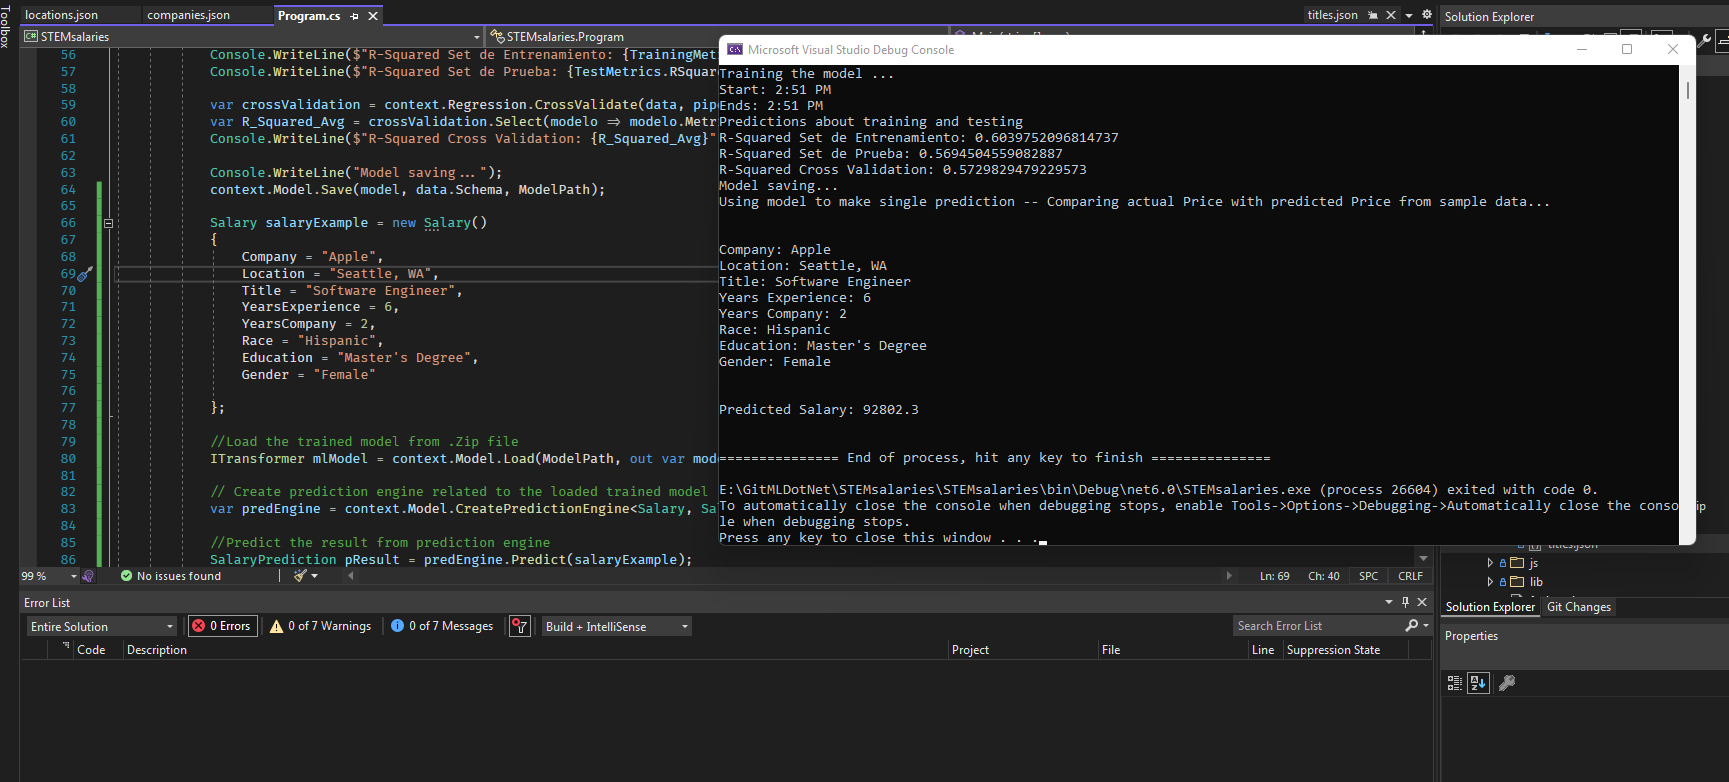
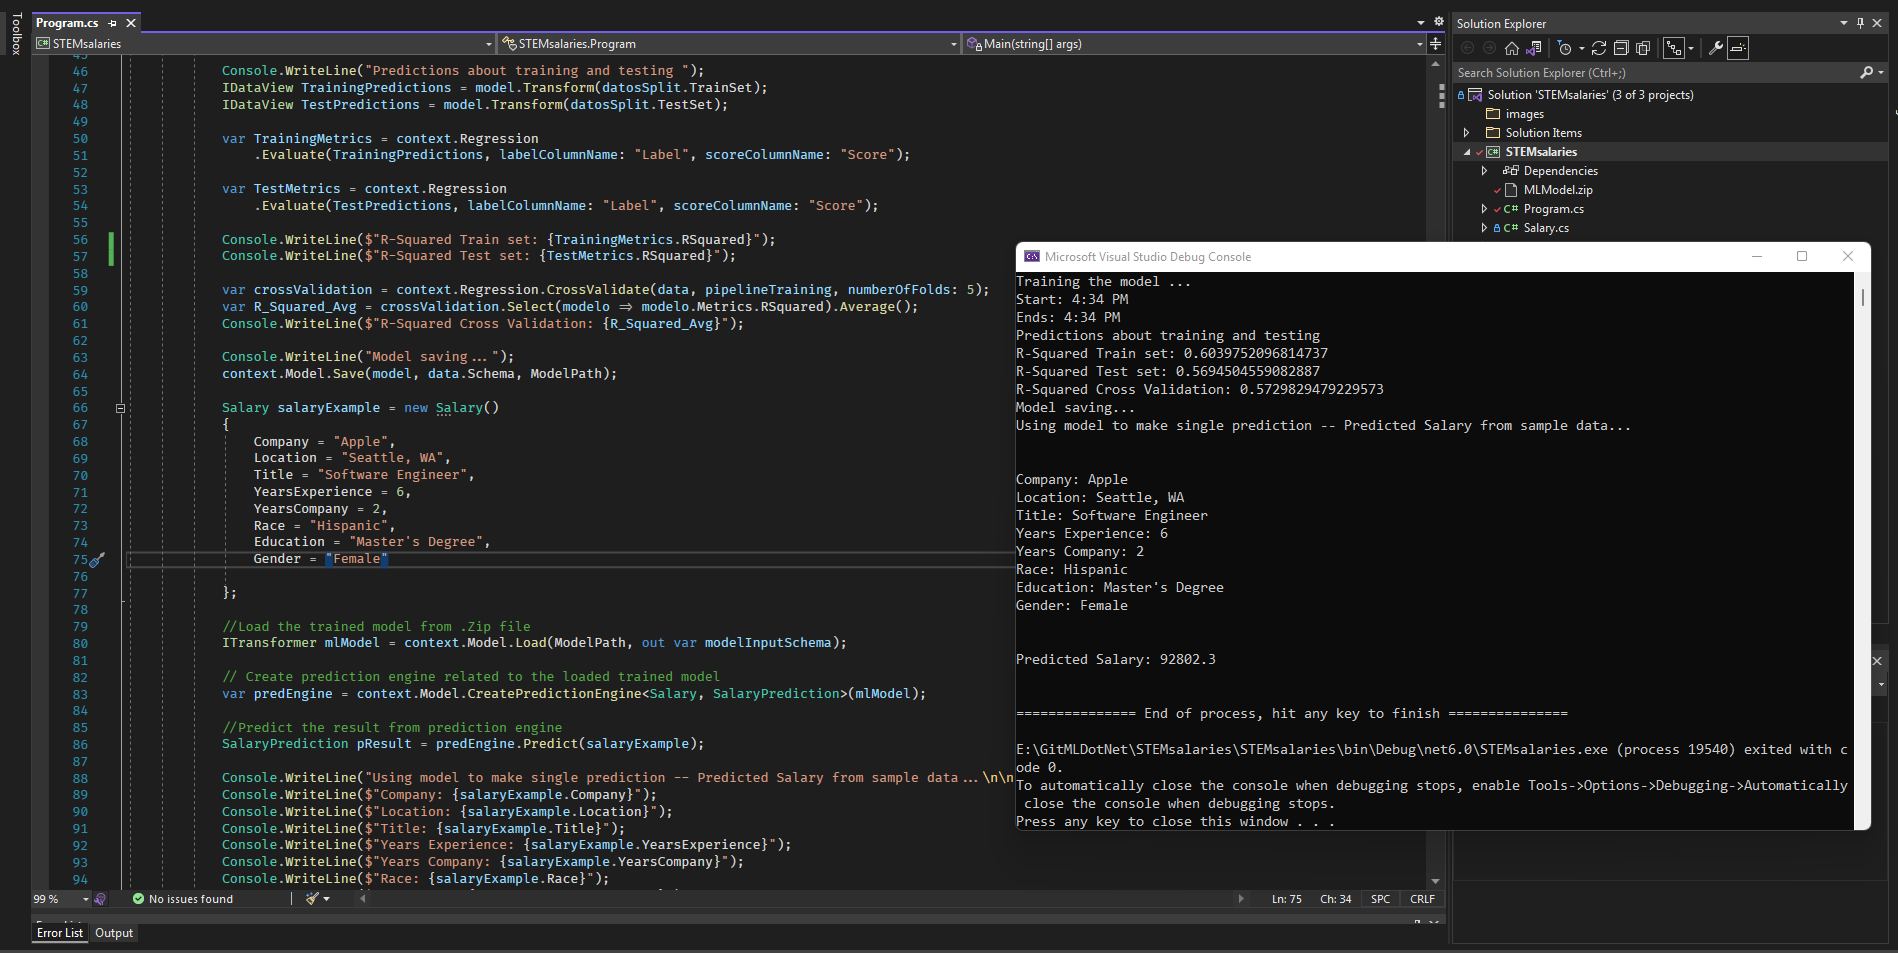
added images

Changed region(s): [[0.0, 0.0, 1.0, 1.0]]

diff --git a/STEMsalaries/Program.cs b/STEMsalaries/Program.cs
@@ -53,8 +53,8 @@ namespace STEMsalaries
             var TestMetrics = context.Regression
                 .Evaluate(TestPredictions, labelColumnName: "Label", scoreColumnName: "Score");
 
-            Console.WriteLine($"R-Squared Set de Entrenamiento: {TrainingMetrics.RSquared}");
-            Console.WriteLine($"R-Squared Set de Prueba: {TestMetrics.RSquared}");
+            Console.WriteLine($"R-Squared Train set: {TrainingMetrics.RSquared}");
+            Console.WriteLine($"R-Squared Test set: {TestMetrics.RSquared}");
 
             var crossValidation = context.Regression.CrossValidate(data, pipelineTraining, numberOfFolds: 5);
             var R_Squared_Avg = crossValidation.Select(modelo => modelo.Metrics.RSquared).Average();
